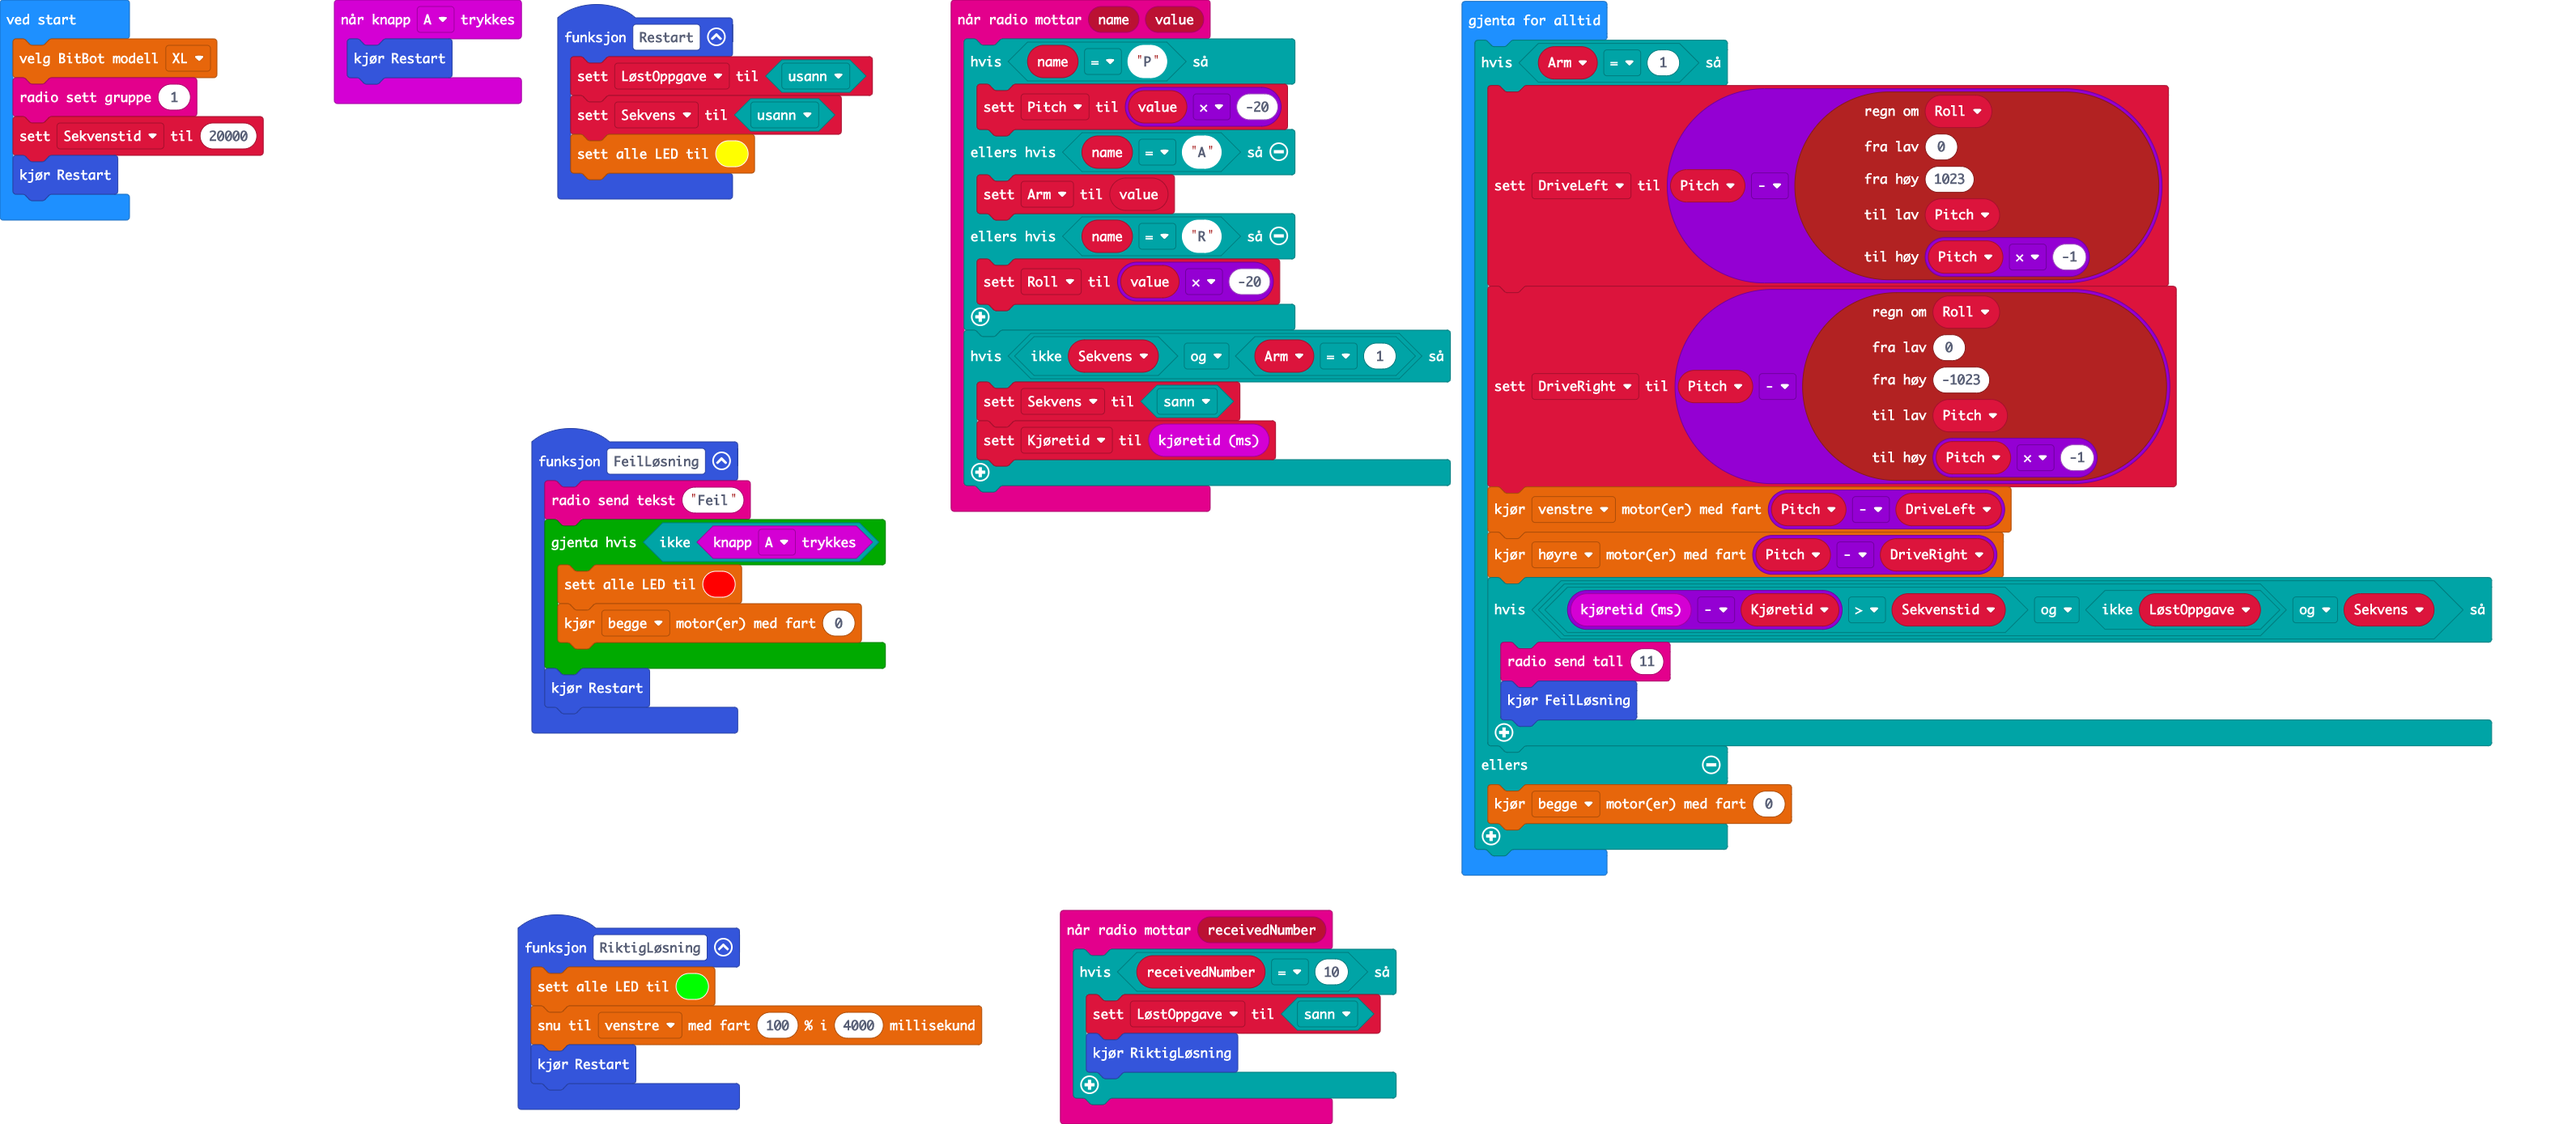
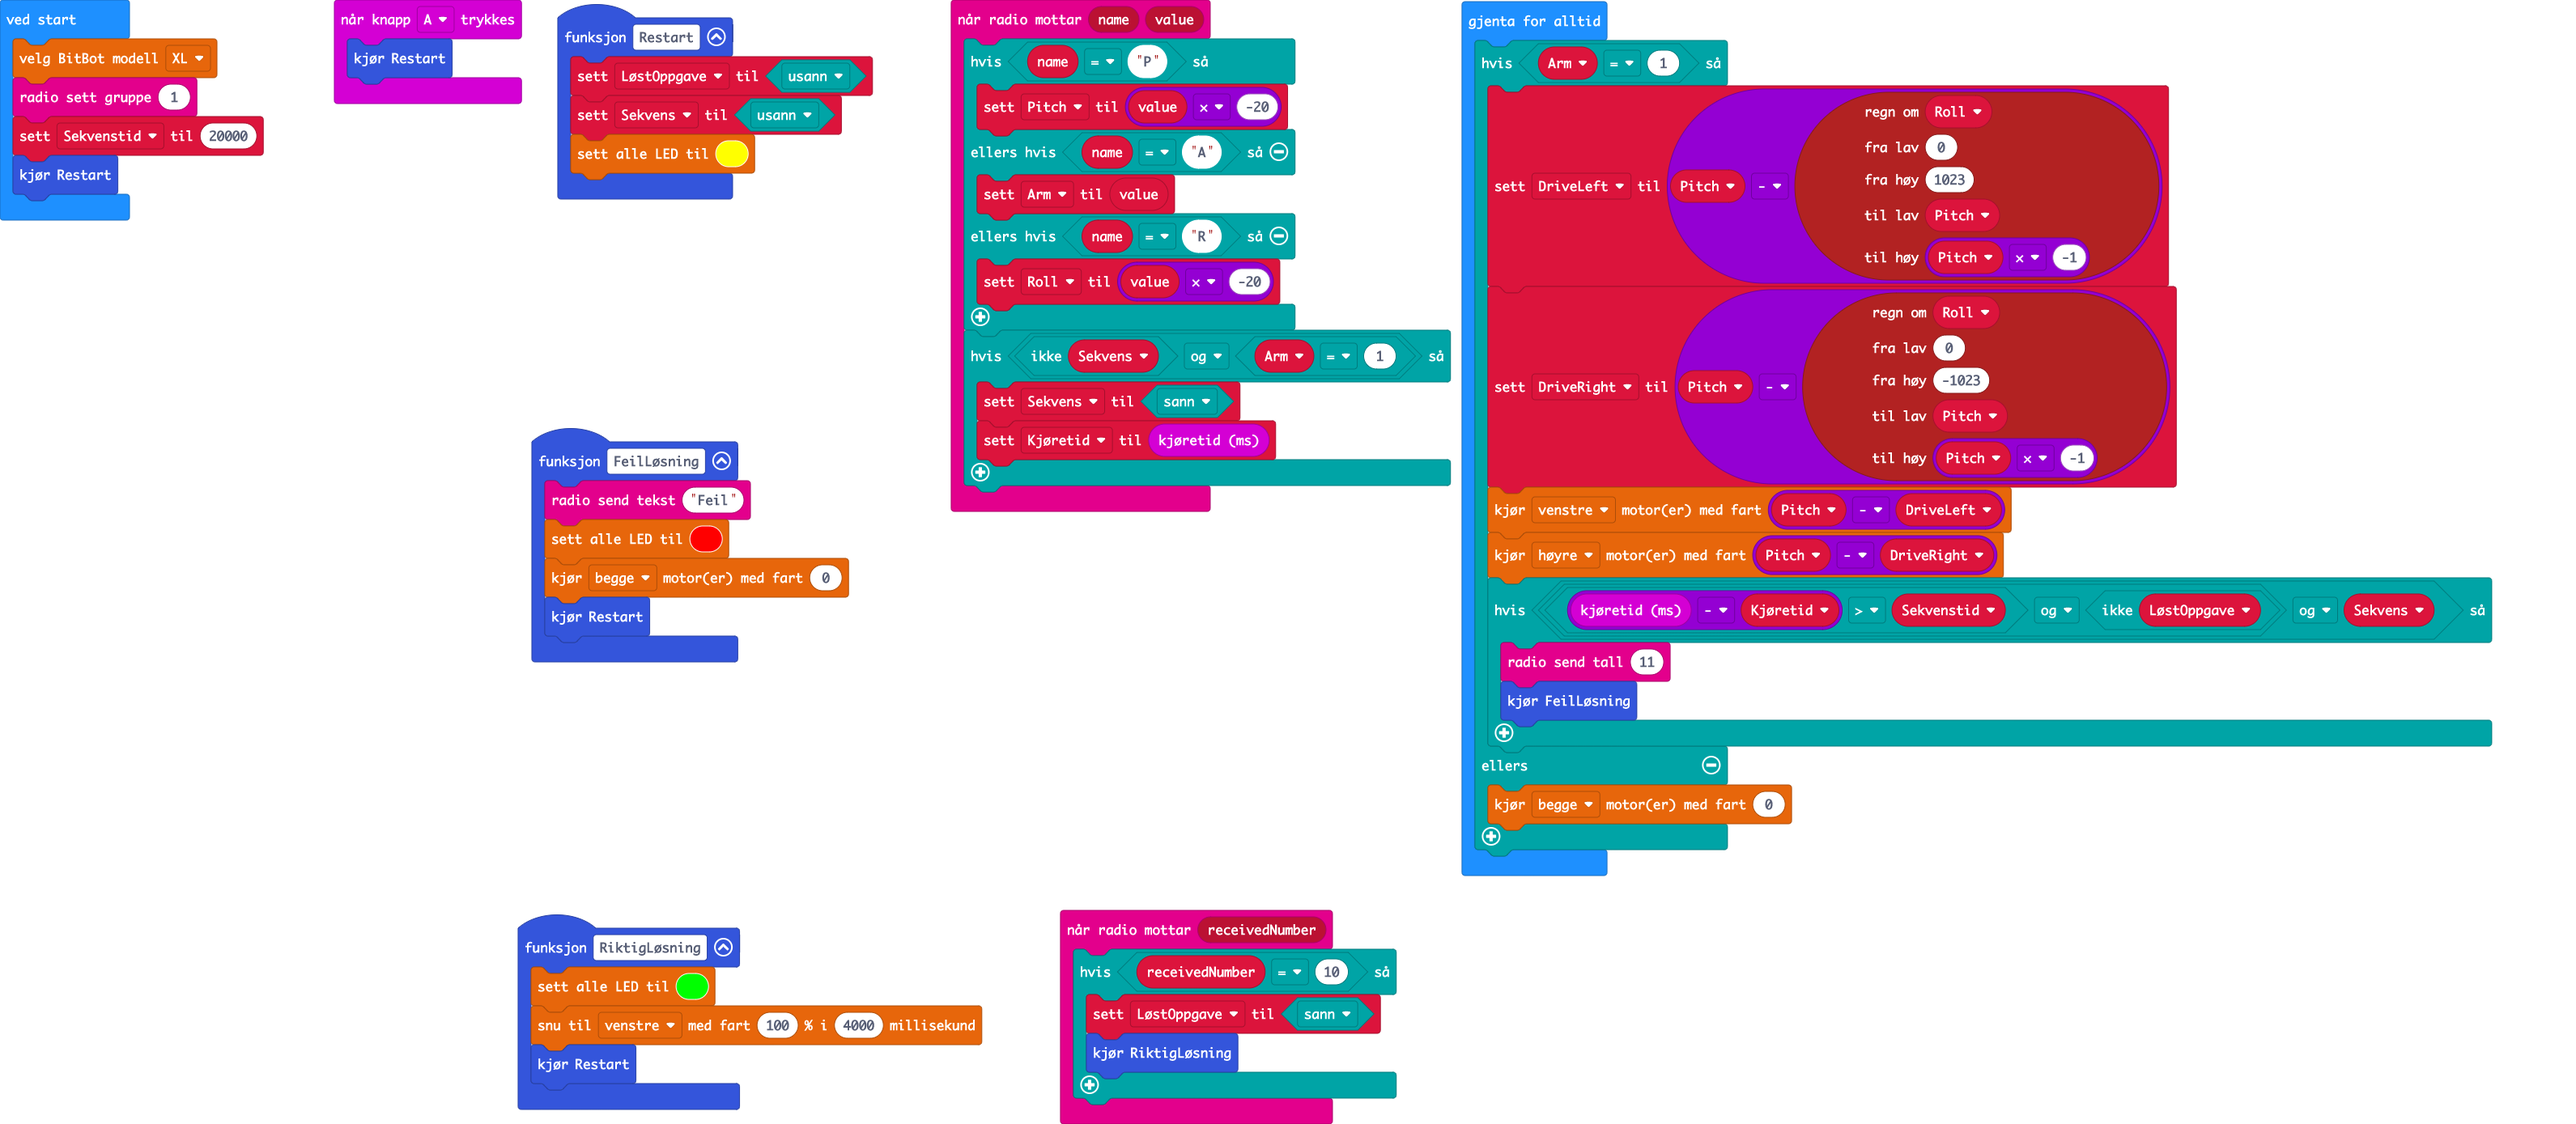
Oppdater main.blocks, main.ts

diff --git a/main.ts b/main.ts
@@ -19,10 +19,8 @@ function Restart () {
 }
 function FeilLøsning () {
     radio.sendString("Feil")
-    while (!(input.buttonIsPressed(Button.A))) {
-        bitbot.setLedColor(0xFF0000)
-        bitbot.motor(BBMotor.Both, 0)
-    }
+    bitbot.setLedColor(0xFF0000)
+    bitbot.motor(BBMotor.Both, 0)
     Restart()
 }
 radio.onReceivedValue(function (name, value) {
